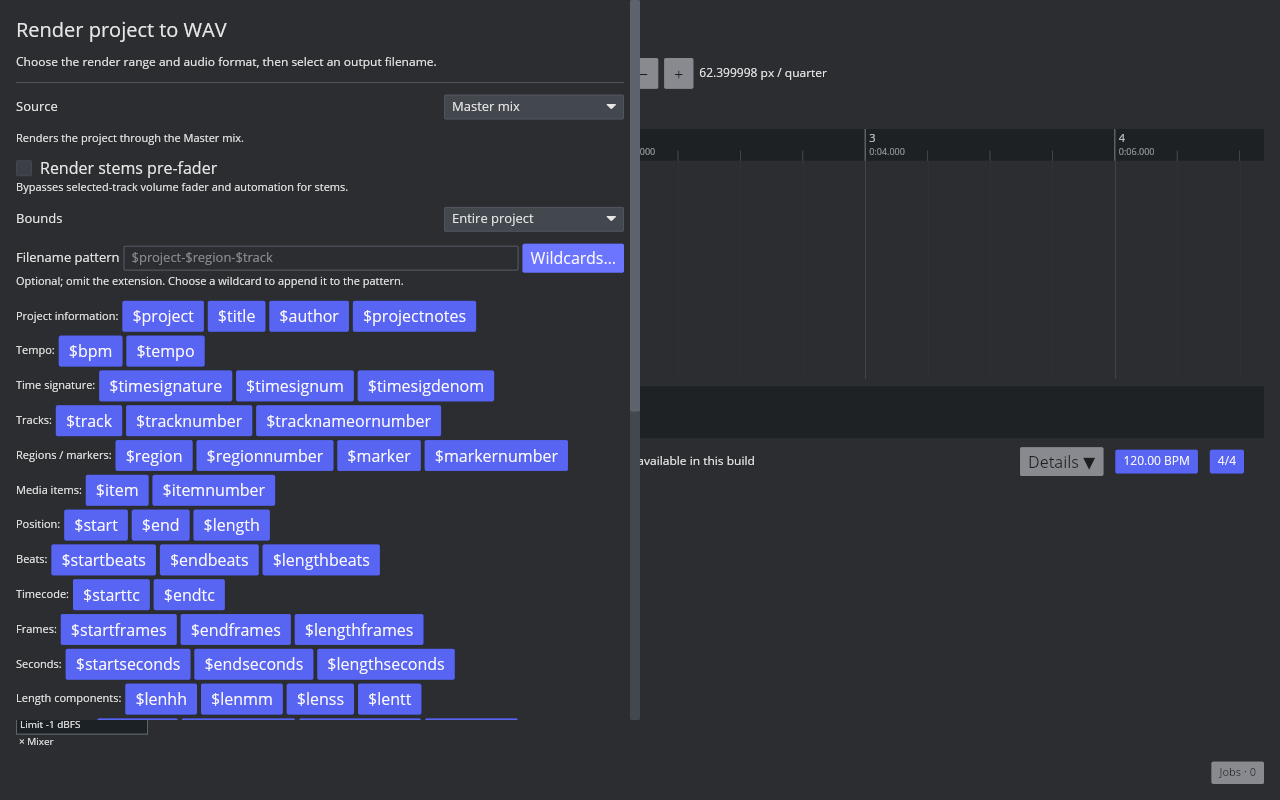
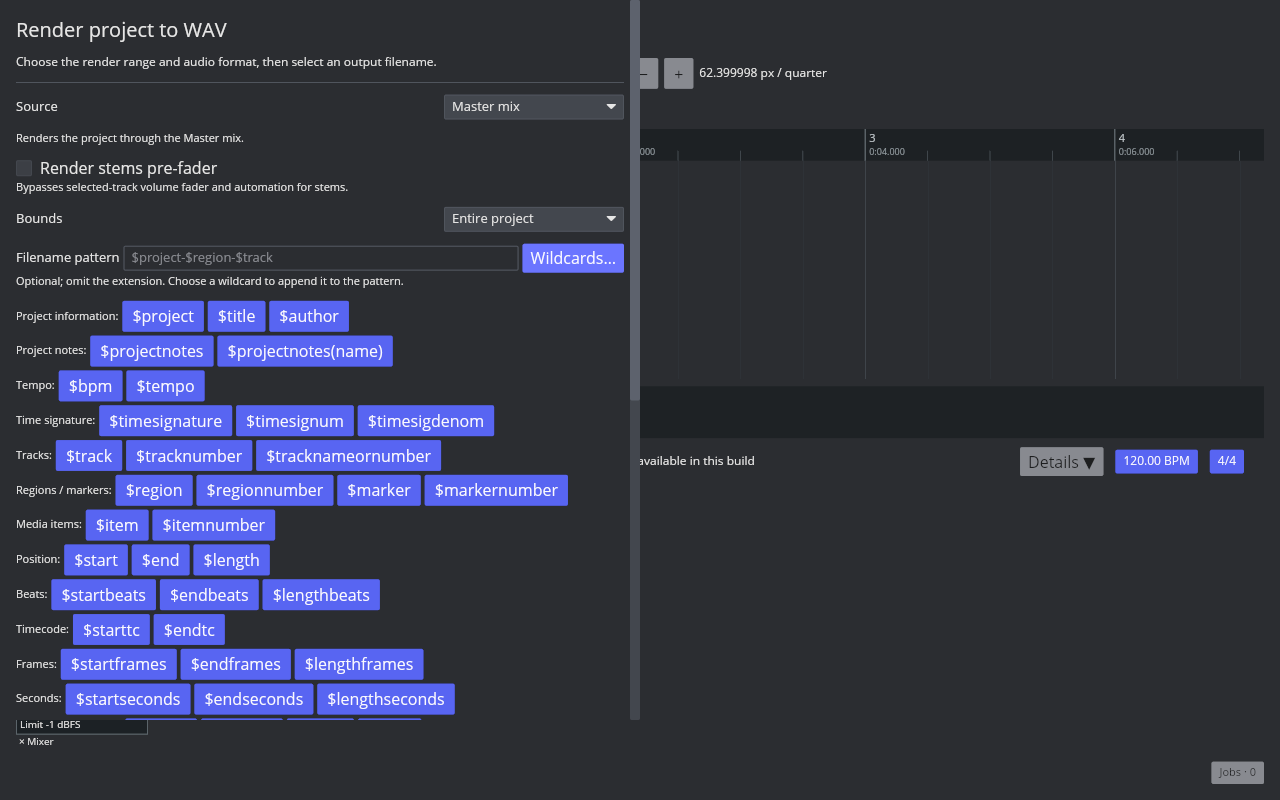
feat(render): resolve named project note wildcards

Changed region(s): [[0.0, 0.375, 0.4688, 0.9062]]

diff --git a/crates/aaadaw/src/app/audio_export.rs b/crates/aaadaw/src/app/audio_export.rs
@@ -47,6 +47,7 @@ pub(crate) enum RenderFilenameWildcard {
     Title,
     Author,
     ProjectNotes,
+    ProjectNotesNamed,
     Tempo,
     TimeSignature,
     TimeSigNum,
@@ -87,11 +88,12 @@ pub(crate) enum RenderFilenameWildcard {
 }
 
 impl RenderFilenameWildcard {
-    pub(crate) const ALL: [Self; 41] = [
+    pub(crate) const ALL: [Self; 42] = [
         Self::Project,
         Self::Title,
         Self::Author,
         Self::ProjectNotes,
+        Self::ProjectNotesNamed,
         Self::Bpm,
         Self::Tempo,
         Self::TimeSignature,
@@ -137,6 +139,7 @@ impl RenderFilenameWildcard {
             Self::Title => "$title",
             Self::Author => "$author",
             Self::ProjectNotes => "$projectnotes",
+            Self::ProjectNotesNamed => "$projectnotes(name)",
             Self::Tempo => "$tempo",
             Self::TimeSignature => "$timesignature",
             Self::TimeSigNum => "$timesignum",
@@ -1019,6 +1022,16 @@ fn is_render_filename_wildcard_separator(character: char) -> bool {
     matches!(character, ' ' | '-' | '_' | '.')
 }
 
+fn project_note_named_value(notes: &str, name: &str) -> String {
+    notes
+        .lines()
+        .find_map(|line| {
+            let (key, value) = line.split_once('=')?;
+            (key == name).then(|| value.to_owned())
+        })
+        .unwrap_or_default()
+}
+
 fn expand_render_filename_pattern(
     pattern: &str,
     fallback: &str,
@@ -1164,20 +1177,42 @@ fn expand_render_filename_pattern(
             .iter()
             .collect::<String>();
         let token = token_original.to_ascii_lowercase();
-        let known_token = RenderFilenameWildcard::ALL
-            .iter()
-            .any(|wildcard| wildcard.token().trim_start_matches('$') == token);
+        let known_token = RenderFilenameWildcard::ALL.iter().any(|wildcard| {
+            wildcard.token().trim_start_matches('$').split('(').next() == Some(token.as_str())
+        });
+        let (expression_end, project_note_name) =
+            if token == "projectnotes" && characters.get(token_end) == Some(&'(') {
+                let expression_start = token_end + 1;
+                characters[expression_start..]
+                    .iter()
+                    .position(|character| *character == ')')
+                    .map(|relative_end| {
+                        let expression_end = expression_start + relative_end + 1;
+                        let name = characters[expression_start..expression_end - 1]
+                            .iter()
+                            .collect::<String>();
+                        (expression_end, Some(name))
+                    })
+                    .unwrap_or((token_end, None))
+            } else {
+                (token_end, None)
+            };
         let (wildcard_end, modifiers) = if known_token {
-            parse_render_filename_wildcard_modifiers(&characters, token_end)
+            parse_render_filename_wildcard_modifiers(&characters, expression_end)
         } else {
-            (token_end, Vec::new())
+            (expression_end, Vec::new())
         };
         let expansion_start = result.len();
         match token.as_str() {
             "project" => result.push_str(project_name),
             "title" => result.push_str(&project.project_notes().title),
             "author" => result.push_str(&project.project_notes().author),
-            "projectnotes" => result.push_str(&project.project_notes().text),
+            "projectnotes" => result.push_str(
+                &project_note_name
+                    .as_deref()
+                    .map(|name| project_note_named_value(&project.project_notes().text, name))
+                    .unwrap_or_else(|| project.project_notes().text.clone()),
+            ),
             "start" => result.push_str(&format_render_wildcard_clock(
                 project,
                 settings.start_sample,
@@ -2979,6 +3014,7 @@ mod tests {
                 "$title",
                 "$author",
                 "$projectnotes",
+                "$projectnotes(name)",
                 "$bpm",
                 "$tempo",
                 "$timesignature",
@@ -3037,6 +3073,46 @@ mod tests {
             app.render_dialog.filename_pattern,
             "$project-$track$project"
         );
+        let _ = app.update(Message::InsertRenderFilenameWildcard(
+            RenderFilenameWildcard::ProjectNotesNamed,
+        ));
+        assert_eq!(
+            app.render_dialog.filename_pattern,
+            "$project-$track$project$projectnotes(name)"
+        );
+    }
+
+    #[test]
+    fn render_filename_named_project_notes_match_native_name_value_rules() {
+        let mut project = Project::default();
+        project
+            .apply(DawAction::SetProjectNotes {
+                notes: ProjectNotes {
+                    text: "first=john\nlast=doe".to_owned(),
+                    ..ProjectNotes::default()
+                },
+            })
+            .expect("named project notes fixture should be set");
+        let settings = aaadaw_app::ProjectWavRenderSettings {
+            master_ceiling: aaadaw_engine::MasterOutputCeiling::default(),
+            export_options: aaadaw_app::WavExportOptions::default(),
+            output_sample_rate: 48_000,
+            output_channels: WavChannelCount::Stereo,
+            source: aaadaw_app::ProjectWavRenderSource::MasterMix,
+            start_sample: 0,
+            end_sample: 48_000,
+            tail_milliseconds: 0,
+            normalize_peak: false,
+            normalize_peak_target_centi_dbfs: 0,
+        };
+        let output = apply_render_filename_pattern(
+            vec![(settings, Path::new("/renders/base.wav").to_owned())],
+            "$projectnotes(first)-$projectnotes(last)-$projectnotes(missing)",
+            &project,
+            Path::new("/projects/named-notes.aaadaw"),
+        )
+        .expect("named project note values should expand");
+        assert_eq!(output[0].1, Path::new("/renders/john-doe.wav"));
     }
 
     #[test]

diff --git a/crates/aaadaw/src/app/view/render.rs b/crates/aaadaw/src/app/view/render.rs
@@ -205,59 +205,63 @@ pub(super) fn view(app: &App) -> Element<'_, Message> {
             column![
                 wildcard_group_row(
                     "Project information:",
-                    RenderFilenameWildcard::ALL.into_iter().take(4),
+                    RenderFilenameWildcard::ALL.into_iter().take(3),
+                ),
+                wildcard_group_row(
+                    "Project notes:",
+                    RenderFilenameWildcard::ALL.into_iter().skip(3).take(2),
                 ),
                 wildcard_group_row(
                     "Tempo:",
-                    RenderFilenameWildcard::ALL.into_iter().skip(4).take(2),
+                    RenderFilenameWildcard::ALL.into_iter().skip(5).take(2),
                 ),
                 wildcard_group_row(
                     "Time signature:",
-                    RenderFilenameWildcard::ALL.into_iter().skip(6).take(3),
+                    RenderFilenameWildcard::ALL.into_iter().skip(7).take(3),
                 ),
                 wildcard_group_row(
                     "Tracks:",
-                    RenderFilenameWildcard::ALL.into_iter().skip(9).take(3),
+                    RenderFilenameWildcard::ALL.into_iter().skip(10).take(3),
                 ),
                 wildcard_group_row(
                     "Regions / markers:",
-                    RenderFilenameWildcard::ALL.into_iter().skip(12).take(4),
+                    RenderFilenameWildcard::ALL.into_iter().skip(13).take(4),
                 ),
                 wildcard_group_row(
                     "Media items:",
-                    RenderFilenameWildcard::ALL.into_iter().skip(16).take(2),
+                    RenderFilenameWildcard::ALL.into_iter().skip(17).take(2),
                 ),
                 wildcard_group_row(
                     "Position:",
-                    RenderFilenameWildcard::ALL.into_iter().skip(18).take(3),
+                    RenderFilenameWildcard::ALL.into_iter().skip(19).take(3),
                 ),
                 wildcard_group_row(
                     "Beats:",
-                    RenderFilenameWildcard::ALL.into_iter().skip(21).take(3),
+                    RenderFilenameWildcard::ALL.into_iter().skip(22).take(3),
                 ),
                 wildcard_group_row(
                     "Timecode:",
-                    RenderFilenameWildcard::ALL.into_iter().skip(24).take(2),
+                    RenderFilenameWildcard::ALL.into_iter().skip(25).take(2),
                 ),
                 wildcard_group_row(
                     "Frames:",
-                    RenderFilenameWildcard::ALL.into_iter().skip(26).take(3),
+                    RenderFilenameWildcard::ALL.into_iter().skip(27).take(3),
                 ),
                 wildcard_group_row(
                     "Seconds:",
-                    RenderFilenameWildcard::ALL.into_iter().skip(29).take(3),
+                    RenderFilenameWildcard::ALL.into_iter().skip(30).take(3),
                 ),
                 wildcard_group_row(
                     "Length components:",
-                    RenderFilenameWildcard::ALL.into_iter().skip(32).take(4),
+                    RenderFilenameWildcard::ALL.into_iter().skip(33).take(4),
                 ),
                 wildcard_group_row(
                     "Output format:",
-                    RenderFilenameWildcard::ALL.into_iter().skip(36).take(4),
+                    RenderFilenameWildcard::ALL.into_iter().skip(37).take(4),
                 ),
                 wildcard_group_row(
                     "Channels:",
-                    RenderFilenameWildcard::ALL.into_iter().skip(40).take(1),
+                    RenderFilenameWildcard::ALL.into_iter().skip(41).take(1),
                 ),
             ]
             .spacing(tokens::SPACING_XS)

diff --git a/docs/verification/reaper-parity/render-filename-patterns.md b/docs/verification/reaper-parity/render-filename-patterns.md
@@ -2,12 +2,12 @@
 
 Linux REAPER 7.82 / Default 7 places a `File name` pattern field and `Wildcards` button in the Render window. The captured selected-item case uses `$region-$item` and resolves to `bounds-ui-Region 2-item_02.wav`; the reference dialog and measured output are archived in [the native screenshot](images/render-selected-items-native.png) and [the output record](render-selected-items-native.tsv). The native Region Render Matrix fixture uses `$region-$track` and emits `Intro-Master.wav`, `Intro-Drums.wav`, `Intro-Guitar.wav`, and `Verse-Bass.wav`.
 
-AAADAW now provides an optional filename-pattern field in its Render window and a grouped `Wildcards…` picker immediately below it. Its 41 implemented tokens cover `$project`, `$title`, `$author`, `$projectnotes`, `$bpm`, `$tempo`, `$timesignature`, `$timesignum`, `$timesigdenom`, `$track`, `$tracknumber`, `$tracknameornumber`, `$region`, `$regionnumber`, `$marker`, `$markernumber`, `$item`, `$itemnumber`, the 18 Position/Length tokens `$start`, `$end`, `$length`, `$startbeats`, `$endbeats`, `$lengthbeats`, `$starttc`, `$endtc`, `$startframes`, `$endframes`, `$lengthframes`, `$startseconds`, `$endseconds`, `$lengthseconds`, `$lenhh`, `$lenmm`, `$lenss`, and `$lentt`, plus `$format`, `$samplerate`, `$sampleratek`, `$bitdepth`, and `$channels`. Project metadata values come from the existing Project Notes model. Selecting a token appends it to the end of the pattern and closes the picker. A chosen output path supplies the directory and extension; a blank pattern retains the existing generated names. The resolver sanitizes characters unsafe in file names and rejects patterns that resolve multiple jobs to the same name before queueing. The Render job still publishes through the existing atomic batch writer.
+AAADAW now provides an optional filename-pattern field in its Render window and a grouped `Wildcards…` picker immediately below it. Its 42 implemented tokens cover `$project`, `$title`, `$author`, `$projectnotes`, `$projectnotes(name)`, `$bpm`, `$tempo`, `$timesignature`, `$timesignum`, `$timesigdenom`, `$track`, `$tracknumber`, `$tracknameornumber`, `$region`, `$regionnumber`, `$marker`, `$markernumber`, `$item`, `$itemnumber`, the 18 Position/Length tokens `$start`, `$end`, `$length`, `$startbeats`, `$endbeats`, `$lengthbeats`, `$starttc`, `$endtc`, `$startframes`, `$endframes`, `$lengthframes`, `$startseconds`, `$endseconds`, `$lengthseconds`, `$lenhh`, `$lenmm`, `$lenss`, and `$lentt`, plus `$format`, `$samplerate`, `$sampleratek`, `$bitdepth`, and `$channels`. Project metadata values come from the existing Project Notes model; `$projectnotes(name)` reads the value of an exact `name=value` line, following the native help example. Selecting a token appends it to the end of the pattern and closes the picker. A chosen output path supplies the directory and extension; a blank pattern retains the existing generated names. The resolver sanitizes characters unsafe in file names and rejects patterns that resolve multiple jobs to the same name before queueing. The Render job still publishes through the existing atomic batch writer.
 
-The [AAADAW filename-field capture](fixtures/render-filename-pattern-aaadaw.png), [expanded picker capture](fixtures/render-filename-pattern-wildcards-aaadaw.png), [scrolled picker capture](fixtures/render-filename-pattern-wildcards-scrolled-aaadaw.png), and [wildcard insertion capture](fixtures/render-filename-pattern-wildcard-insert-aaadaw.png) were taken from the rebuilt desktop binary. The reproducible [capture script](../../../scripts/reaper_parity/capture-render-filename-pattern-aaadaw.sh) drives the visible Render command with Ctrl+Alt+R; set `AAADAW_OPEN_WILDCARDS=1` to capture the expanded picker, or `AAADAW_INSERT_WILDCARD=sampleratek` to scroll to the lower groups, click the token, and capture the resulting field. The current desktop capture confirms that `$sampleratek` inserts and closes the picker. Native UI probes accept `AAADAW_REAPER_WILDCARD_PATTERN` to replace their default pattern. The selected-item probe also accepts project title, author, notes, track name, item start, and item length overrides. Native captures verify `$tracknumber-$tracknameornumber-$regionnumber-$tempo-$timesignature-$timesignum-$timesigdenom` as `01-Render fixture-02-120-4-4-4-4.wav`, `$markernumber` as `01.wav`, `$title-$author-$projectnotes` as `Wildcard Session-Render Author-Mix notes.wav`, and an empty track name with `$tracknameornumber` as `Track 01.wav`. At 30 fps and 4/4, a selected item from 2.125 to 3.359 seconds resolves `$start-$end-$length` to `0-02.125-0-03.359-0-01.234`, `$startbeats-$endbeats-$lengthbeats` to `2.1.25-2.3.72-0.2.47`, `$starttc-$endtc` to `00.00.02.03-00.00.03.10`, `$startseconds-$endseconds-$lengthseconds-$startframes-$endframes-$lengthframes` to `2.125-3.359-1.234-63-100-37`, and the length components to `0-0-1-234`. The [native context capture](fixtures/render-wildcards-context-native.png), [marker capture](fixtures/render-wildcards-marker-native.png), [metadata capture](fixtures/render-wildcards-metadata-native.png), [unnamed-track capture](fixtures/render-wildcards-unnamed-track-native.png), and the [clock](fixtures/render-wildcards-clock-native.png), [beats](fixtures/render-wildcards-beats-native.png), [timecode](fixtures/render-wildcards-timecode-native.png), [frames](fixtures/render-wildcards-frames-native.png), and [length components](fixtures/render-wildcards-length-native.png) captures preserve those cases. Screenshot hashes, native inputs, implementation tokens, and regression results are in the [fixture manifest](fixtures/render-filename-pattern-aaadaw.tsv).
+The [AAADAW filename-field capture](fixtures/render-filename-pattern-aaadaw.png), [expanded picker capture](fixtures/render-filename-pattern-wildcards-aaadaw.png), [scrolled picker capture](fixtures/render-filename-pattern-wildcards-scrolled-aaadaw.png), [project-note insertion capture](fixtures/render-filename-pattern-wildcard-insert-aaadaw.png), [item-number insertion capture](fixtures/render-filename-pattern-wildcard-itemnumber-aaadaw.png), and [sample-rate insertion capture](fixtures/render-filename-pattern-wildcard-sampleratek-aaadaw.png) were taken from the rebuilt desktop binary. The reproducible [capture script](../../../scripts/reaper_parity/capture-render-filename-pattern-aaadaw.sh) drives the visible Render command with Ctrl+Alt+R; set `AAADAW_OPEN_WILDCARDS=1` to capture the expanded picker, or `AAADAW_INSERT_WILDCARD=projectnotesnamed`, `itemnumber`, or `sampleratek` to click those tokens and capture the resulting field. The current desktop captures confirm that `$projectnotes(name)`, `$itemnumber`, and `$sampleratek` insert and close the picker. Native UI probes accept `AAADAW_REAPER_WILDCARD_PATTERN` to replace their default pattern. The selected-item probe also accepts project title, author, notes, track name, item start, and item length overrides. Native captures verify `$tracknumber-$tracknameornumber-$regionnumber-$tempo-$timesignature-$timesignum-$timesigdenom` as `01-Render fixture-02-120-4-4-4-4.wav`, `$markernumber` as `01.wav`, `$title-$author-$projectnotes` as `Wildcard Session-Render Author-Mix notes.wav`, and an empty track name with `$tracknameornumber` as `Track 01.wav`. At 30 fps and 4/4, a selected item from 2.125 to 3.359 seconds resolves `$start-$end-$length` to `0-02.125-0-03.359-0-01.234`, `$startbeats-$endbeats-$lengthbeats` to `2.1.25-2.3.72-0.2.47`, `$starttc-$endtc` to `00.00.02.03-00.00.03.10`, `$startseconds-$endseconds-$lengthseconds-$startframes-$endframes-$lengthframes` to `2.125-3.359-1.234-63-100-37`, and the length components to `0-0-1-234`. The [native context capture](fixtures/render-wildcards-context-native.png), [marker capture](fixtures/render-wildcards-marker-native.png), [metadata capture](fixtures/render-wildcards-metadata-native.png), [unnamed-track capture](fixtures/render-wildcards-unnamed-track-native.png), and the [clock](fixtures/render-wildcards-clock-native.png), [beats](fixtures/render-wildcards-beats-native.png), [timecode](fixtures/render-wildcards-timecode-native.png), [frames](fixtures/render-wildcards-frames-native.png), and [length components](fixtures/render-wildcards-length-native.png) captures preserve those cases. Screenshot hashes, native inputs, implementation tokens, and regression results are in the [fixture manifest](fixtures/render-filename-pattern-aaadaw.tsv).
 
 Wildcard text expansion now follows the native help for capitalization (`$Track`, `$TRACK`, `$tRACK`), `<X>` removal, `<abcdeX>` replacement, and `[<N]` prefix truncation. When a known wildcard expands to an empty string, one adjacent space, hyphen, underscore, or dot is omitted, following the native help rule. Unit regressions cover those transformations; native help captures are linked in the [catalog](render-wildcard-catalog.md).
 
-The regression resolves the native `$region-$track` matrix pattern to the same four native target names, renders those jobs through AAADAW's offline audio renderer, and compares every PCM24 sample to the matching REAPER output. A second test resolves `$region-$item` to the observed `Intro-item_01.wav` form. The context-expansion regression checks Project Notes title/author/text, all Position/Length values, and track, region, tempo, and time-signature values; `$itemnumber` follows the selected item’s project order and is regression-tested with the captured `$item` `item_02` identity; an unnamed track resolves `$tracknameornumber` to the native `Track 02` form. The native unnamed-track render preview shows `Track 01.wav`. Separate cases cover safe-name conversion, blank-pattern fallback, unknown literal tokens, and duplicate-name rejection. The queue test sets `$project-$track` through the Render message and checks that queued stem paths use the expanded project and track names; it also verifies duplicate names leave the queue unchanged. The picker regression covers all 41 visible tokens, appending the selected token, and closing the menu. The output-context regression checks native values for WAV format, 44.1/22.05 kHz formatting, 16/24/32/64-bit PCM/float and 4/2-bit compressed WAV values, and Mono/Stereo channel counts. See the manifest for current build, screenshot hashes, and validation counts.
+The regression resolves the native `$region-$track` matrix pattern to the same four native target names, renders those jobs through AAADAW's offline audio renderer, and compares every PCM24 sample to the matching REAPER output. A second test resolves `$region-$item` to the observed `Intro-item_01.wav` form. The context-expansion regression checks Project Notes title/author/text, all Position/Length values, and track, region, tempo, and time-signature values; `$itemnumber` follows the selected item’s project order and is regression-tested with the captured `$item` `item_02` identity; an unnamed track resolves `$tracknameornumber` to the native `Track 02` form. The native unnamed-track render preview shows `Track 01.wav`. Separate cases cover safe-name conversion, blank-pattern fallback, unknown literal tokens, and duplicate-name rejection. The queue test sets `$project-$track` through the Render message and checks that queued stem paths use the expanded project and track names; it also verifies duplicate names leave the queue unchanged. The picker regression covers all 42 visible tokens, appending the selected token, and closing the menu. The named Project Notes regression resolves `first=john` and `last=doe` to `john-doe`, as shown in the native help, and an absent key resolves empty. The output-context regression checks native values for WAV format, 44.1/22.05 kHz formatting, 16/24/32/64-bit PCM/float and 4/2-bit compressed WAV values, and Mono/Stereo channel counts. See the manifest for current build, screenshot hashes, and validation counts.
 
-The [native wildcard catalog](render-wildcard-catalog.md) records the 97 entries visible in REAPER 7.82 menus and the native Wildcard help rules. This does not complete REAPER Wildcards parity: AAADAW exposes 40 tokens in a flat scrollable grouped picker and appends at the pattern end; insertion at the caret or over a selection, `$projectnotes(name)` and named-note parsing, project directory variants, region/marker/item note and name expressions, folders/parent/FX, recording names, date/time/unique IDs, computer/user values, REAPER's full ordering and escaping rules, pattern presets and cross-launch persistence, native collision prompts, non-WAV formats, per-channel `$chid`, and remaining source/range combinations are open. Position/Length formatting is verified with the default 4/4 meter and 30 fps, while project time offset, meter changes across the render range, other frame rates, drop-frame modes, and Tail interactions still need native comparisons. The native context captures verify track number/name, region number, tempo, time signature components, marker number, project title/author/notes, and the sampled time/beat/frame output forms. `$marker` text/name expansion and many source-dependent values still need native comparisons. `RENDER-WILDCARDS-001`, `RENDER-SOURCE-001`, and `UI-028` remain `in_progress`.
+The [native wildcard catalog](render-wildcard-catalog.md) records the 97 entries visible in REAPER 7.82 menus and the native Wildcard help rules. This does not complete REAPER Wildcards parity: AAADAW exposes 42 tokens in a flat scrollable grouped picker and appends at the pattern end; insertion at the caret or over a selection, region/marker/item/take-marker named-note parsing, project directory variants, region/marker/item note and name expressions, folders/parent/FX, recording names, date/time/unique IDs, computer/user values, REAPER's full ordering and escaping rules, pattern presets and cross-launch persistence, native collision prompts, non-WAV formats, per-channel `$chid`, and remaining source/range combinations are open. Position/Length formatting is verified with the default 4/4 meter and 30 fps, while project time offset, meter changes across the render range, other frame rates, drop-frame modes, and Tail interactions still need native comparisons. The native context captures verify track number/name, region number, tempo, time signature components, marker number, project title/author/notes, and the sampled time/beat/frame output forms. `$marker` text/name expansion and many source-dependent values still need native comparisons. `RENDER-WILDCARDS-001`, `RENDER-SOURCE-001`, and `UI-028` remain `in_progress`.

diff --git a/docs/verification/reaper-parity/render-source.md b/docs/verification/reaper-parity/render-source.md
@@ -20,7 +20,7 @@ AAADAW stores a Master-mix boolean and ordered TrackId list per project region i
 
 The Render Source menu now offers `Region Render Matrix` with All/Selected Project Regions bounds. The existing atomic batch-render queue builds one output for each assigned Master row and one for each assigned track row, and stores per-region ranges in each job. The native Linux REAPER 7.82 render action produced four outputs for this fixture: `Intro-Master.wav`, `Intro-Drums.wav`, `Intro-Guitar.wav`, and `Verse-Bass.wav`; unassigned target/region pairs produced no files. All four files were 48 kHz stereo PCM24 with 96,000 frames. The [source generator](../../../scripts/reaper_parity/generate-region-render-matrix-sources.py), [ReaScript render probe](../../../scripts/reaper_parity/probe-region-render-matrix-render.lua), [native output table](fixtures/region-render-matrix-render-native.tsv), and [PCM fixtures](fixtures/region-render-matrix-render/) preserve the setup, metadata, hashes, and payloads. An AAADAW regression renders the same four target jobs and compares every PCM payload byte-for-byte with the corresponding native fixture; output format, frame count, and sample values also match exactly.
 
-The Render window now has an optional filename-pattern field and a grouped `Wildcards…` picker for 41 implemented tokens: `$project`, `$title`, `$author`, `$projectnotes`, `$bpm`, `$tempo`, `$timesignature`, `$timesignum`, `$timesigdenom`, `$track`, `$tracknumber`, `$tracknameornumber`, `$region`, `$regionnumber`, `$marker`, `$markernumber`, `$item`, `$itemnumber`, the 18 Position/Length tokens, and `$format`, `$samplerate`, `$sampleratek`, `$bitdepth`, and `$channels`. The existing Project Notes title, author, and text fields drive the three new metadata variables. A native selected-item Render probe confirms `$title-$author-$projectnotes` resolves to `Wildcard Session-Render Author-Mix notes.wav`; `$tracknumber-$tracknameornumber-$regionnumber-$tempo-$timesignature-$timesignum-$timesigdenom` resolves to `01-Render fixture-02-120-4-4-4-4.wav`, and the marker probe confirms `$markernumber` resolves to `01.wav`. REAPER's changelog specifies that an unnamed track resolves `$tracknameornumber` to `Track NN`; a fresh native dialog shows an empty track name resolving to `Track 01.wav`, which AAADAW now matches. For a selected item from 2.125 to 3.359 seconds, native Render previews verify clock values `0-02.125`, beat values `2.1.25-2.3.72-0.2.47`, timecode `00.00.02.03-00.00.03.10`, seconds and 30 fps counts `2.125-3.359-1.234-63-100-37`, and length components `0-0-1-234`. The native context, metadata, marker, unnamed-track, Position/Length, Output Format, and Channels screenshots are in the filename wildcard fixture set. The native wildcard menu and help catalog is recorded in [the catalog verification](render-wildcard-catalog.md). For the tested `$region-$track` pattern, AAADAW emits the native names `Intro-Master.wav`, `Intro-Drums.wav`, `Intro-Guitar.wav`, and `Verse-Bass.wav`; its offline renderer still matches all four native PCM payloads byte-for-byte. The native `$region-$item` case resolves to `bounds-ui-Region 2-item_02.wav`; AAADAW resolves `$item` as `item_02` for the second project item and exposes the matching `$itemnumber` value `02`. Blank patterns keep the existing generated output names. Wildcard capitalization, character replacement/removal, prefix truncation, and empty-value separator removal follow the native help and have regression coverage; caret/selection insertion, `[N]` render-order counters, directory creation, lane filters, named project-note parsing, remaining tokens, preset persistence, and more source/range combinations remain open; see [filename wildcard verification](render-filename-patterns.md). The simple fixture confirms the tested track signal and Master sum, but not pre/post-fader settings, automation, folders/sends, or FX routing. Those gaps keep `RENDER-SOURCE-001` and `PROJECT-REGIONS-001` `in_progress`.
+The Render window now has an optional filename-pattern field and a grouped `Wildcards…` picker for 42 implemented tokens: `$project`, `$title`, `$author`, `$projectnotes`, `$projectnotes(name)`, `$bpm`, `$tempo`, `$timesignature`, `$timesignum`, `$timesigdenom`, `$track`, `$tracknumber`, `$tracknameornumber`, `$region`, `$regionnumber`, `$marker`, `$markernumber`, `$item`, `$itemnumber`, the 18 Position/Length tokens, and `$format`, `$samplerate`, `$sampleratek`, `$bitdepth`, and `$channels`. The existing Project Notes title, author, and text fields drive the metadata variables; `$projectnotes(name)` resolves matching `name=value` lines, as documented in the native help. A native selected-item Render probe confirms `$title-$author-$projectnotes` resolves to `Wildcard Session-Render Author-Mix notes.wav`; `$tracknumber-$tracknameornumber-$regionnumber-$tempo-$timesignature-$timesignum-$timesigdenom` resolves to `01-Render fixture-02-120-4-4-4-4.wav`, and the marker probe confirms `$markernumber` resolves to `01.wav`. REAPER's changelog specifies that an unnamed track resolves `$tracknameornumber` to `Track NN`; a fresh native dialog shows an empty track name resolving to `Track 01.wav`, which AAADAW now matches. For a selected item from 2.125 to 3.359 seconds, native Render previews verify clock values `0-02.125`, beat values `2.1.25-2.3.72-0.2.47`, timecode `00.00.02.03-00.00.03.10`, seconds and 30 fps counts `2.125-3.359-1.234-63-100-37`, and length components `0-0-1-234`. The native context, metadata, marker, unnamed-track, Position/Length, Output Format, and Channels screenshots are in the filename wildcard fixture set. The native wildcard menu and help catalog is recorded in [the catalog verification](render-wildcard-catalog.md). For the tested `$region-$track` pattern, AAADAW emits the native names `Intro-Master.wav`, `Intro-Drums.wav`, `Intro-Guitar.wav`, and `Verse-Bass.wav`; its offline renderer still matches all four native PCM payloads byte-for-byte. The native `$region-$item` case resolves to `bounds-ui-Region 2-item_02.wav`; AAADAW resolves `$item` as `item_02` for the second project item and exposes the matching `$itemnumber` value `02`. Blank patterns keep the existing generated output names. Wildcard capitalization, character replacement/removal, prefix truncation, and empty-value separator removal follow the native help and have regression coverage; caret/selection insertion, `[N]` render-order counters, directory creation, lane filters, region/marker/item/take-marker named values, remaining tokens, preset persistence, and more source/range combinations remain open; see [filename wildcard verification](render-filename-patterns.md). The simple fixture confirms the tested track signal and Master sum, but not pre/post-fader settings, automation, folders/sends, or FX routing. Those gaps keep `RENDER-SOURCE-001` and `PROJECT-REGIONS-001` `in_progress`.
 
 ### Selected media items
 

diff --git a/docs/reaper-parity/progress.md b/docs/reaper-parity/progress.md
@@ -26,7 +26,7 @@
 | P7 | 未开始 | MIDI |
 | P8 | 未开始 | 自动化 |
 | P9 | 未开始 | 插件 |
-| P10 | 进行中 | 工程帧率/时间码、Notes 与 General 起始速度/拍号/采样率/有符号 Start measure/BPM basis/标尺间隔锚点/Project start time 显示偏移/已实现字段的默认工程设置保存；媒体默认已有 64pt playback/192pt render sinc，Render 支持 Entire project/Time selection/Custom time range/All project regions/All project markers、默认关闭且整数毫秒输入的 Tail、Project/常用预设输出采样率转换、Mono/Stereo WAV、PCM8/16/24/32、Float32/64、4-bit IMA ADPCM、2-bit cADPCM 与 8-bit u-Law、可调 sample-peak、Selected tracks (stems)/pre-fader/via master、Master mix and stems，以及 Region Render Matrix 的 All/Selected Regions 批量任务构造、一组 4 文件原厂 PCM24 对照和 41 个常用 Wildcard token（其中 18 个 Position/Length 项及 5 个输出格式/通道值与 REAPER 7.82 实窗输出比对；原厂大小写、字符替换/删除、[<N] 截取和空值分隔符规则已接入）；$region-$track 原厂文件名与完整 PCM 已一致，完整 Wildcards chooser/规则/跨启动保存及其他路由行为仍待验收；cADPCM 编码尚未逐字节一致、Selected regions/markers、其他 Bounds、多声道、其他归一化/限制后处理和完整原厂对照仍缺 |
+| P10 | 进行中 | 工程帧率/时间码、Notes 与 General 起始速度/拍号/采样率/有符号 Start measure/BPM basis/标尺间隔锚点/Project start time 显示偏移/已实现字段的默认工程设置保存；媒体默认已有 64pt playback/192pt render sinc，Render 支持 Entire project/Time selection/Custom time range/All project regions/All project markers、默认关闭且整数毫秒输入的 Tail、Project/常用预设输出采样率转换、Mono/Stereo WAV、PCM8/16/24/32、Float32/64、4-bit IMA ADPCM、2-bit cADPCM 与 8-bit u-Law、可调 sample-peak、Selected tracks (stems)/pre-fader/via master、Master mix and stems，以及 Region Render Matrix 的 All/Selected Regions 批量任务构造、一组 4 文件原厂 PCM24 对照和 42 个常用 Wildcard token（其中 18 个 Position/Length 项及 5 个输出格式/通道值与 REAPER 7.82 实窗输出比对；原厂大小写、字符替换/删除、[<N] 截取和空值分隔符与 named project-note 规则已接入）；$region-$track 原厂文件名与完整 PCM 已一致，完整 Wildcards chooser/规则/跨启动保存及其他路由行为仍待验收；cADPCM 编码尚未逐字节一致、Selected regions/markers、其他 Bounds、多声道、其他归一化/限制后处理和完整原厂对照仍缺 |
 | P11 | 未开始 | 其他原厂界面 |
 | P12 | 未开始 | 全量验收 |
 
@@ -1594,3 +1594,8 @@ App nextest 664/664、strict all-target App Clippy `-D warnings`、stripped-debu
 ## 2026-10-16 Media item number wildcard
 
 补齐原厂 Media Items 菜单中的 `$itemnumber`。其值来自当前选中音频 Item 在工程 Item 序列中的一基序号，并按两位数输出；与已有 `$item` 共享同一身份索引。回归以第二个工程 Item 验证 `$item-$itemnumber` 为 `item_02-02`，与已存档的原厂第二个选中 Item `$item` 预览 `item_02` 一致。Picker 增至 41 项，Media items 组同列显示 `$item` / `$itemnumber`；X11 实点第二个按钮后正确插入 `$itemnumber` 并关闭 picker。App nextest 668/668 与 strict all-target App Clippy `-D warnings` 通过；Build ID `8d0c0fdde9a40e520786848ba56c265ab2d1a705` 的 Render、完整 picker、滚动 picker 和实点插入截图已登记。直接 `$itemnumber` 原厂输出预览及其他原厂 Media Items 项仍开放。
+
+
+## 2026-10-16 Named project-note wildcard
+
+实现原厂 Media/Project Information 菜单中的 `$projectnotes(name)`，按原厂 help 的 `name=value` 行精确取值；缺失名称为空，并复用空值相邻分隔符清理。使用原厂帮助页示例 `first=john`、`last=doe` 新增回归，模式 `$projectnotes(first)-$projectnotes(last)-$projectnotes(missing)` 得到 `john-doe`。picker 将 Project notes 拆为普通备注与 named-value 两个按钮，插入坐标脚本同步更新。Picker 扩展到 42 项；App nextest 669/669 与 strict all-target App Clippy `-D warnings` 通过。Build ID `32409702f28800989b39000cedcd7387752a9249` 的 Render、picker、滚动 picker、named-note、itemnumber 和 sampleratek 实点截图已登记；区域/标记/Item/Take marker 命名值及其余原厂 wildcard 仍开放。

diff --git a/docs/verification/reaper-parity/render-wildcard-catalog.md b/docs/verification/reaper-parity/render-wildcard-catalog.md
@@ -33,6 +33,6 @@ The captured Output Format previews confirm `wav-44100-44.1-24-2` for 44.1 kHz /
 
 ## AAADAW status
 
-AAADAW implements 41 tokens: `$project`, `$title`, `$author`, `$projectnotes`, `$bpm`, `$tempo`, `$timesignature`, `$timesignum`, `$timesigdenom`, `$track`, `$tracknumber`, `$tracknameornumber`, `$region`, `$regionnumber`, `$marker`, `$markernumber`, `$item`, `$itemnumber`, the 18 Position/Length entries above, and `$format`, `$samplerate`, `$sampleratek`, `$bitdepth`, and `$channels`. `$bpm` and `$tracknameornumber` are accepted compatibility forms outside the captured native menu labels. The native menu groups items hierarchically; AAADAW currently presents its flat grouped picker in a scrollable panel. Its lower rows and a real `$sampleratek` insertion are shown in the [scrolled AAADAW picker](fixtures/render-filename-pattern-wildcards-scrolled-aaadaw.png) and [insertion capture](fixtures/render-filename-pattern-wildcard-insert-aaadaw.png).
+AAADAW implements 42 tokens: `$project`, `$title`, `$author`, `$projectnotes`, `$projectnotes(name)`, `$bpm`, `$tempo`, `$timesignature`, `$timesignum`, `$timesigdenom`, `$track`, `$tracknumber`, `$tracknameornumber`, `$region`, `$regionnumber`, `$marker`, `$markernumber`, `$item`, `$itemnumber`, the 18 Position/Length entries above, and `$format`, `$samplerate`, `$sampleratek`, `$bitdepth`, and `$channels`. `$bpm` and `$tracknameornumber` are accepted compatibility forms outside the captured native menu labels. The native menu groups items hierarchically; AAADAW currently presents its flat grouped picker in a scrollable panel. Its lower rows and a real `$sampleratek` insertion are shown in the [scrolled AAADAW picker](fixtures/render-filename-pattern-wildcards-scrolled-aaadaw.png), [sample-rate insertion](fixtures/render-filename-pattern-wildcard-sampleratek-aaadaw.png), [named project-note insertion](fixtures/render-filename-pattern-wildcard-insert-aaadaw.png), and [item-number insertion](fixtures/render-filename-pattern-wildcard-itemnumber-aaadaw.png).
 
-AAADAW now applies the help-documented capitalization modes, `<X>` character removal, `<abcdeX>` character replacement, `[<N]` prefix truncation, and removal of one adjacent space, hyphen, underscore, or dot when a resolved value is empty. Regression cases cover the help examples. The rest of the native catalog and syntax remain open: named notes and expressions, directory and folder hierarchy, parent and FX names, marker identity and ordering, item notes and take markers, recording counters, date/time and unique IDs, user/computer values, `[N]` render-order counters, `/` directory creation, `{lane}`, presets, `Master $Track` substitution, non-WAV formats, and per-channel `$chid` need implementation or additional source-specific REAPER comparisons. `RENDER-WILDCARDS-001` remains `in_progress`.
+AAADAW now applies the help-documented capitalization modes, `<X>` character removal, `<abcdeX>` character replacement, `[<N]` prefix truncation, and removal of one adjacent space, hyphen, underscore, or dot when a resolved value is empty. Regression cases cover the help examples. Project-note named lookup `$projectnotes(name)` is now implemented from the captured help example. The rest of the native catalog and syntax remain open: region/marker/item/take-marker named notes and expressions, directory and folder hierarchy, parent and FX names, marker identity and ordering, item notes and take markers, recording counters, date/time and unique IDs, user/computer values, `[N]` render-order counters, `/` directory creation, `{lane}`, presets, `Master $Track` substitution, non-WAV formats, and per-channel `$chid` need implementation or additional source-specific REAPER comparisons. `RENDER-WILDCARDS-001` remains `in_progress`.
